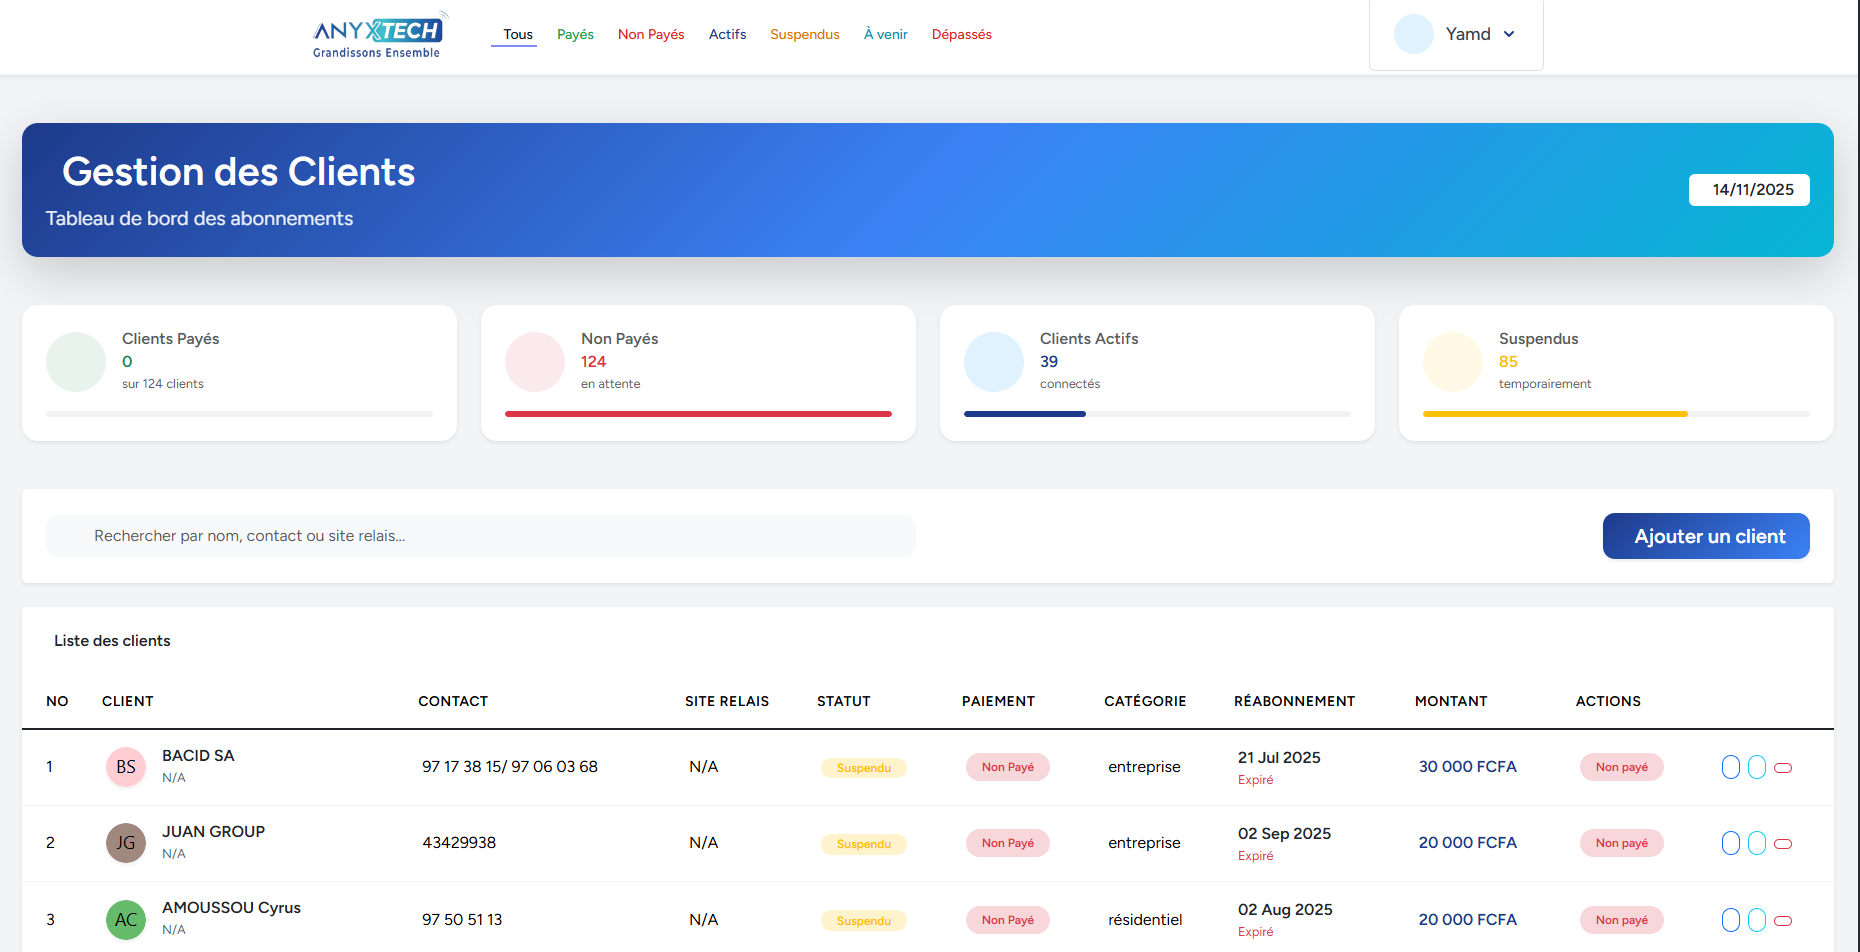
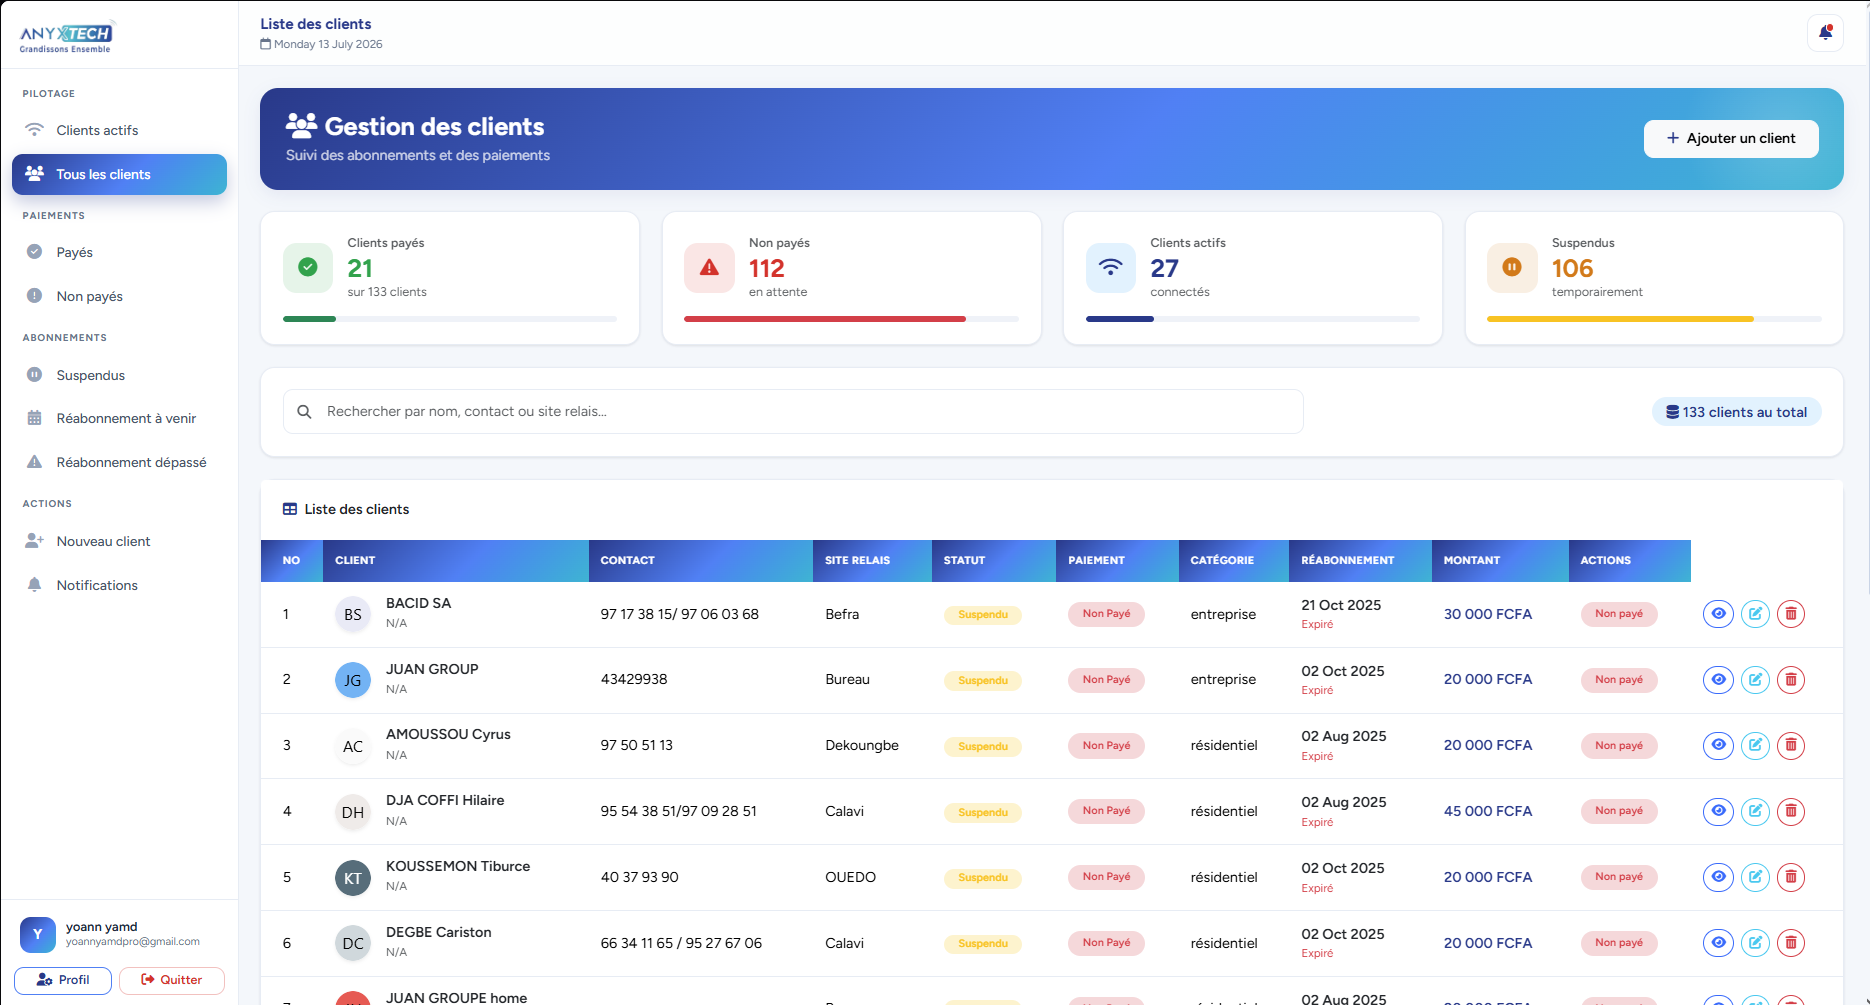
update hotel back office link to demo.anyxtech.com/login

diff --git a/src/i18n/translations.ts b/src/i18n/translations.ts
@@ -113,7 +113,7 @@ export const translations: { [key: string]: Translation } = {
           tech: ["Laravel", "PHP", "MySQL", "Docker", "Fedapay"],
           link: "https://github.com/yamdev07/HotelManagement.git",
           demo: "https://demo.anyxtech.com",
-          extraButton: { label: "Back Office", url: "https://lecactushotel.bj/login" },
+          extraButton: { label: "Back Office", url: "https://demo.anyxtech.com/login" },
           featured: true,
         },
         anyxTech: {
@@ -258,7 +258,7 @@ export const translations: { [key: string]: Translation } = {
           tech: ["Laravel", "PHP", "MySQL", "Docker", "FedaPay"],
           link: "https://github.com/yamdev07/HotelManagement.git",
           demo: "https://demo.anyxtech.com",
-          extraButton: { label: "Back Office", url: "https://lecactushotel.bj/login" },
+          extraButton: { label: "Back Office", url: "https://demo.anyxtech.com/login" },
           featured: true,
         },
         anyxTech: {
